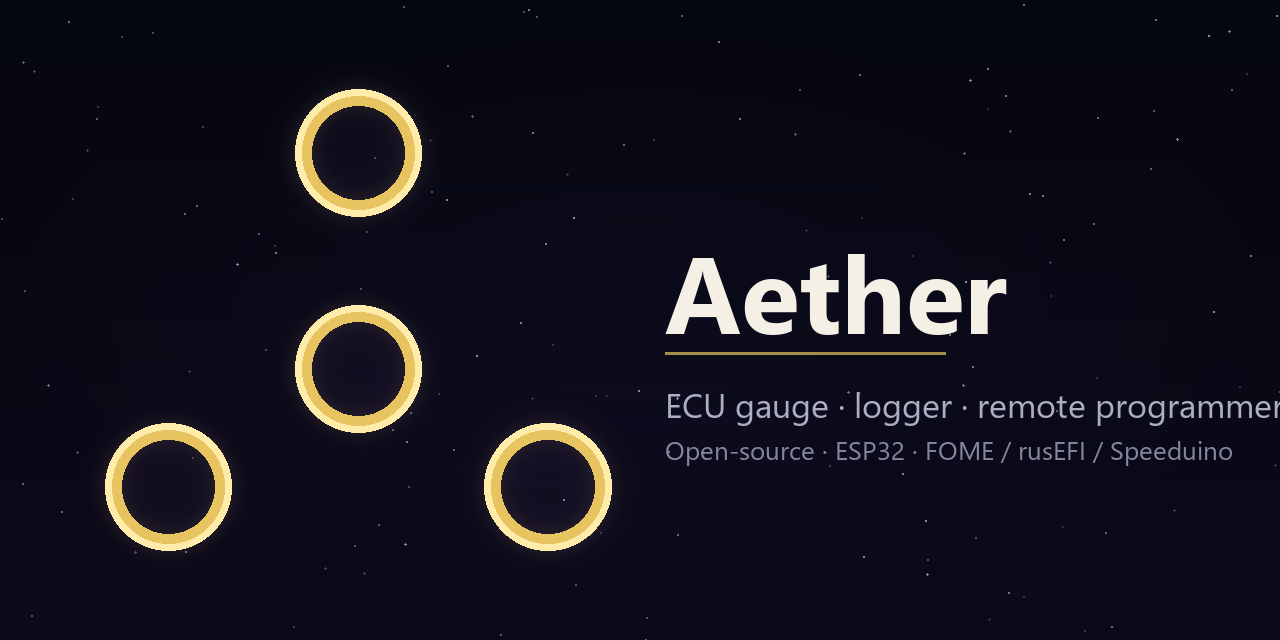
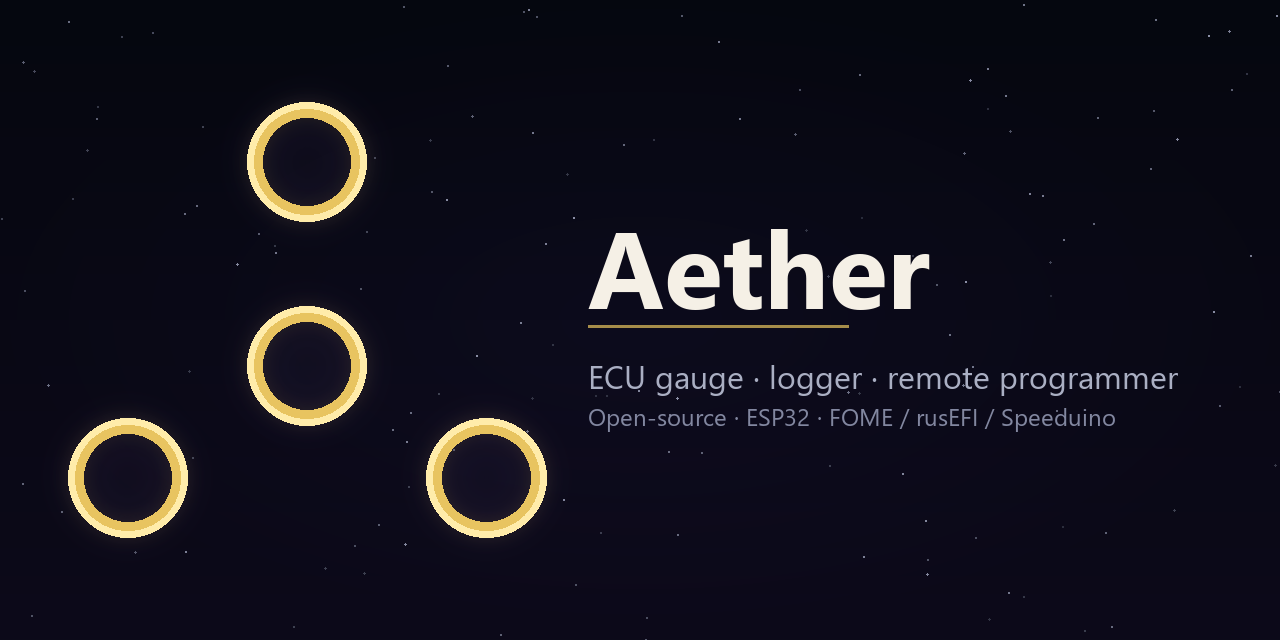
docs: fix social preview text clipping on right edge
Fit taglines within a right margin; nudge symbol left so the text column has room.

diff --git a/docs/images/_gen_brand.py b/docs/images/_gen_brand.py
@@ -119,13 +119,29 @@ def make_icon(size: int = 1024) -> Image.Image:
     return icon
 
 
+def _text_width(draw: ImageDraw.ImageDraw, text: str, font) -> int:
+    bbox = draw.textbbox((0, 0), text, font=font)
+    return bbox[2] - bbox[0]
+
+
+def _fit_font(draw: ImageDraw.ImageDraw, text: str, max_w: int, size: int, bold: bool = False, min_size: int = 18):
+    """Shrink font until text fits max_w."""
+    while size >= min_size:
+        font = find_font(size, bold=bold)
+        if _text_width(draw, text, font) <= max_w:
+            return font, size
+        size -= 2
+    return find_font(min_size, bold=bold), min_size
+
+
 def make_social(w: int = 1280, h: int = 640) -> Image.Image:
     social = vertical_gradient(w, h, BG_TOP, BG_BOT)
     social = starfield(social, n=140, seed=11)
 
-    sym_cx = w * 0.28
+    # Symbol on the left; keep clear of the text column
+    sym_cx = w * 0.24
     sym_cy = h * 0.50
-    scale_s = h * 0.72 / 9.1
+    scale_s = h * 0.68 / 9.1
 
     g1 = glow_layer((w, h), sym_cx, sym_cy, scale_s, GLOW, width_ratio=0.28, blur=26, glow_expand=1.5)
     g2 = glow_layer((w, h), sym_cx, sym_cy, scale_s, GLOW2, width_ratio=0.26, blur=12, glow_expand=1.15)
@@ -135,23 +151,33 @@ def make_social(w: int = 1280, h: int = 640) -> Image.Image:
     draw_aether_symbol(d, sym_cx, sym_cy, scale_s, GOLD, width_ratio=0.28)
     draw_aether_symbol(d, sym_cx, sym_cy, scale_s, GOLD_HI, width_ratio=0.12)
 
-    title_font = find_font(108, bold=True)
-    tag_font = find_font(34, bold=False)
-    sub_font = find_font(26, bold=False)
+    # Text column: fixed left start + right margin so nothing clips
+    margin_r = 64
+    tx = int(w * 0.46)
+    max_text_w = w - tx - margin_r
+    ty = int(h * 0.30)
 
     title = "Aether"
-    tx = int(w * 0.52)
-    ty = int(h * 0.34)
+    title_font, _ = _fit_font(d, title, max_text_w, 108, bold=True, min_size=72)
     d.text((tx, ty), title, font=title_font, fill=TEXT)
     bbox = d.textbbox((tx, ty), title, font=title_font)
     tw = bbox[2] - bbox[0]
-    line_y = bbox[3] + 18
-    d.line([(tx, line_y), (tx + min(tw, 280), line_y)], fill=ACCENT_LINE, width=3)
+    line_y = bbox[3] + 16
+    d.line([(tx, line_y), (tx + min(tw, 260), line_y)], fill=ACCENT_LINE, width=3)
 
-    tag = "ECU gauge · logger · remote programmer"
-    d.text((tx, line_y + 28), tag, font=tag_font, fill=MUTED)
-    sub = "Open-source · ESP32 · FOME / rusEFI / Speeduino"
-    d.text((tx, line_y + 78), sub, font=sub_font, fill=(130, 135, 160, 255))
+    # Two short lines instead of one long line that ran off the canvas
+    tag_lines = [
+        "ECU gauge · logger · remote programmer",
+        "Open-source · ESP32 · FOME / rusEFI / Speeduino",
+    ]
+    y = line_y + 28
+    for i, line in enumerate(tag_lines):
+        size = 32 if i == 0 else 24
+        bold = False
+        font, _ = _fit_font(d, line, max_text_w, size, bold=bold, min_size=18)
+        fill = MUTED if i == 0 else (130, 135, 160, 255)
+        d.text((tx, y), line, font=font, fill=fill)
+        y += size + 14
 
     flat = Image.new("RGBA", (w, h), (*BG_TOP, 255))
     return Image.alpha_composite(flat, social)
